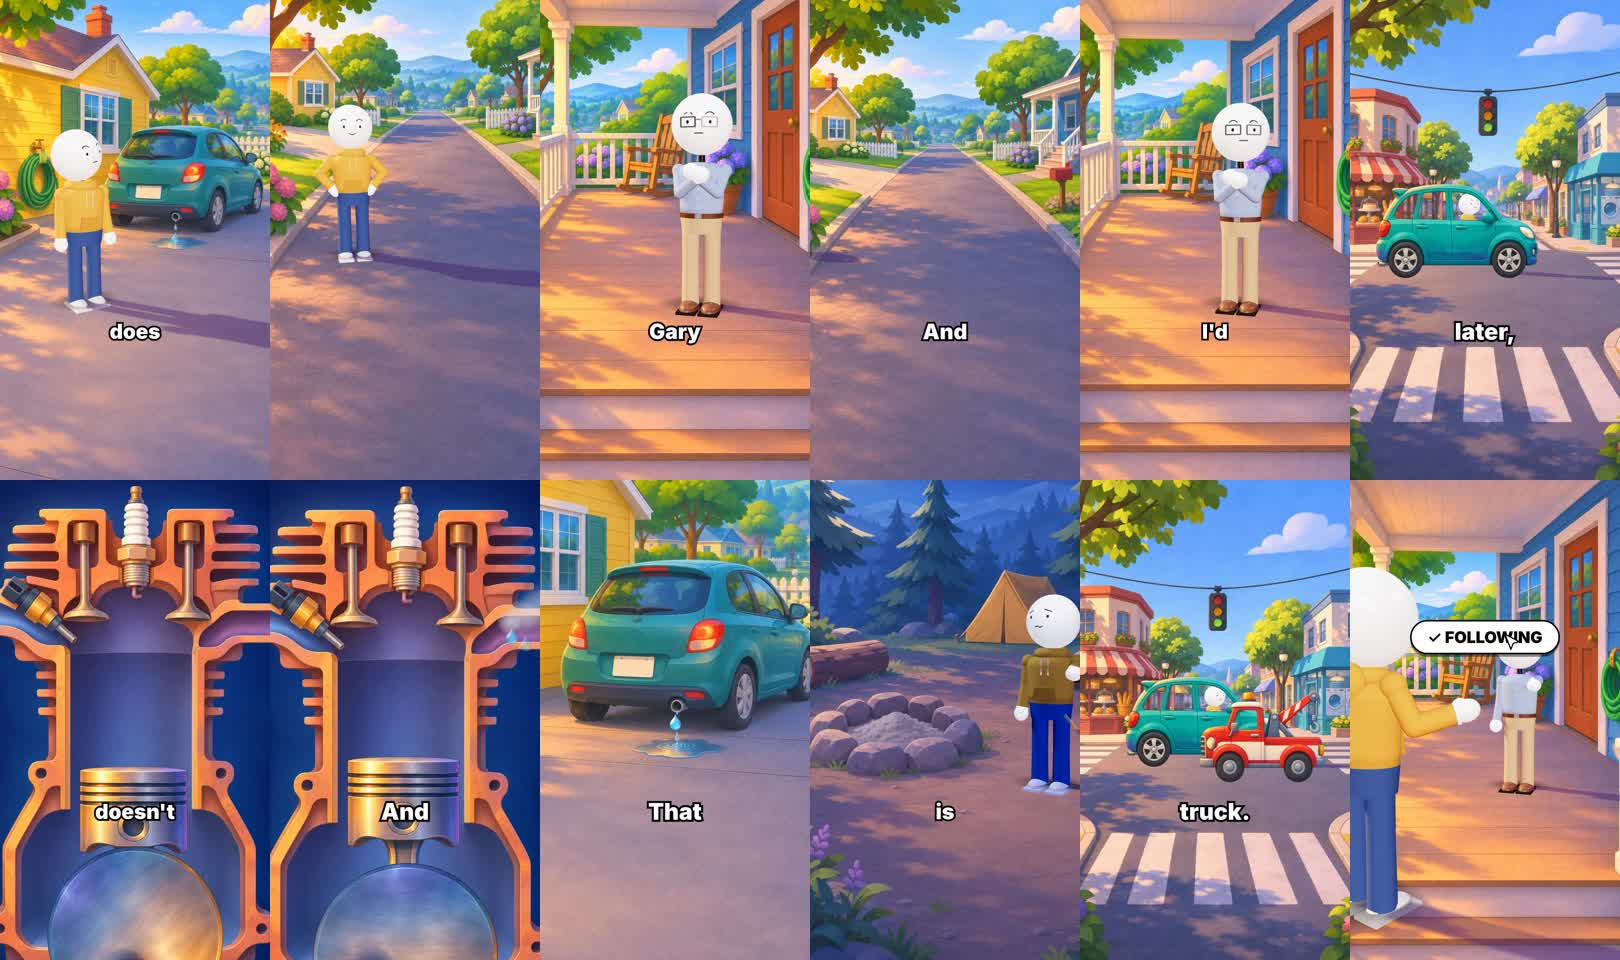
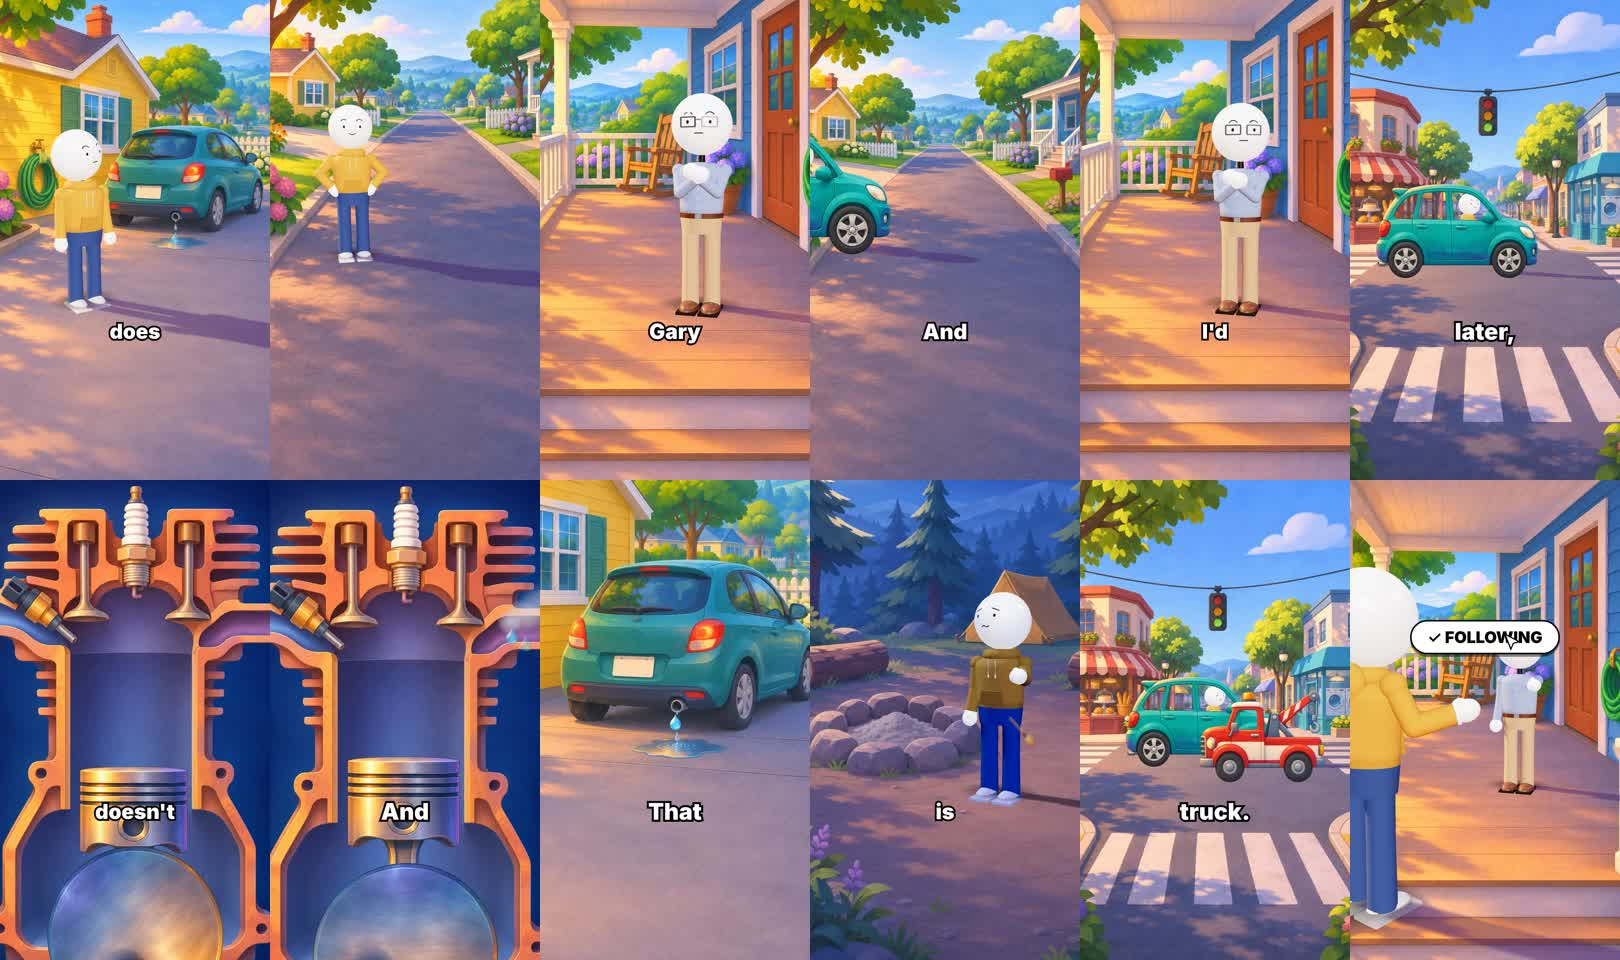
gas-vs-water: framing fixes

Changed region(s): [[0.5864, 0.5938, 0.679, 0.8438], [0.4938, 0.125, 0.5864, 0.2812]]

diff --git a/videos/gas-vs-water/scene.js b/videos/gas-vs-water/scene.js
@@ -94,7 +94,7 @@
         case 'hose': K.place('doug', -.6, 0, -5.6, .7); face(D, 'happy', t); D.pose({ t, gesture: 'tada', gw: K.ease(L / .4), look: .4 }); break;
         case 'start': { // drive across the street, big puffs, wave once rolling
           const u = (t - at('start')) / (at('bet') - at('start'));
-          carDoug(K, t, -6 + 9 * K.ease(u), -11, 1, { wave: t > at('wave'), face: 'happy' }); break; }
+          carDoug(K, t, -3.6 + 7 * K.ease(u), -11, 1, { wave: t > at('wave'), face: 'happy' }); break; }
         case 'small': { // into the intersection, puffs shrinking, stops on "stall"
           const stopT = at('stall'), u = K.clamp01((t - at('small')) / (stopT - at('small')));
           const x = -9 + 9 * (1 - Math.pow(1 - u, 2)), puff = t < at('until') ? 1 - .7 * K.clamp01((t - at('small')) / (at('until') - at('small'))) : .3 * (1 - K.clamp01((t - at('until')) / 2.5));
@@ -102,7 +102,7 @@
         case 'aside': case 'piston': { engine(K, t); break; }
         case 'callback': drip(K, t, 641, 700, 70, 26, 1.1); break;
         case 'ash': { // Doug tries to light the ashes
-          K.place('doug', .9, 0, -7, -.5); face(D, L > 6 ? 'worried' : 'smile', t);
+          K.place('doug', .25, 0, -6.6, -.5); face(D, L > 6 ? 'worried' : 'smile', t);
           D.pose({ t, armR: { raise: .25, fwd: -.9 }, look: -.2, nod: -.15 });
           const h = K.screenOf(D.arm[1].wr), drop = K.clamp01((L - 7) / .6);
           K.prop('P12', { x: h.x + 10, y: h.y - 40 + drop * 260, w: 120, rot: .3 + drop * 1.8 + Math.sin(L * 5) * .05, a: 1 - drop * .6 }); break; }
